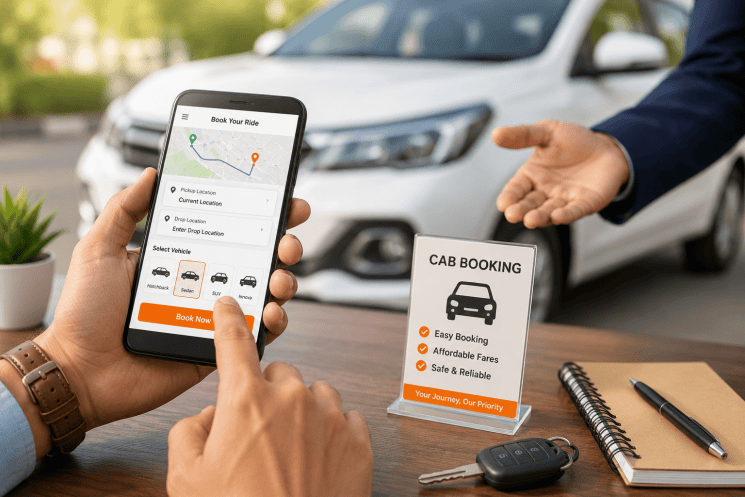
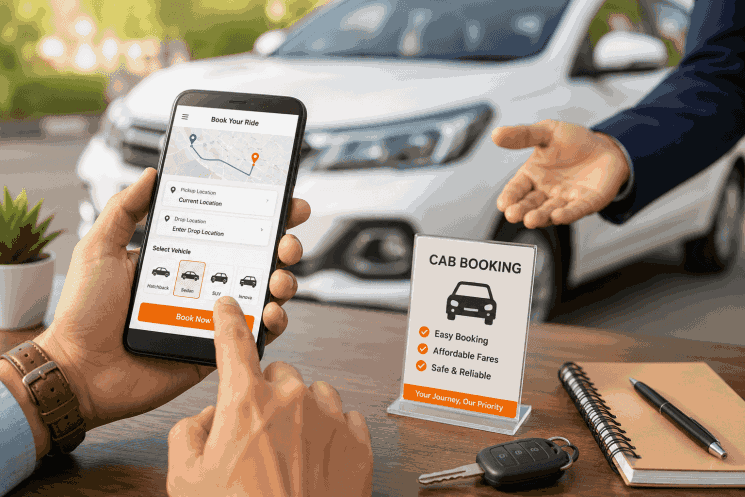
all picture done

diff --git a/components/about/sections/ServicesSection.tsx b/components/about/sections/ServicesSection.tsx
@@ -8,40 +8,9 @@ export const ServicesSection: React.FC = () => {
   const ref = useRef(null);
   const inView = useInView(ref, { once: true, margin: "-80px" });
 
-  const serviceCards = [
-    {
-      title: "Wide Range of Cab Options",
-      description: "Choose from hatchbacks, sedans, SUVs, Innova, Ertiga, and tempo travellers for city rides, family vacations, business trips, airport pickups, and long-distance outstation travel. AAVORide offers clean, comfortable, and budget-friendly vehicles for every journey.",
-      image: "/assets/images/cab-range.png",
-      icon: (
-        <svg viewBox="0 0 18 16" fill="none" xmlns="http://www.w3.org/2000/svg" className="w-5 h-5 text-brand-primary">
-          <path id="Icon_8" d="M3,14v1c0,0.28 -0.0958,0.52 -0.2875,0.71c-0.1917,0.19 -0.4292,0.29 -0.7125,0.29h-1c-0.2833,0 -0.5208,-0.1 -0.7125,-0.29c-0.1917,-0.19 -0.2875,-0.43 -0.2875,-0.71v-8l2.1,-6c0.1,-0.3 0.2792,-0.54 0.5375,-0.72c0.2583,-0.19 0.5458,-0.28 0.8625,-0.28h11c0.3167,0 0.6042,0.09 0.8625,0.28c0.2583,0.18 0.4375,0.42 0.5375,0.72l2.1,6v8c0,0.28 -0.0958,0.52 -0.2875,0.71c-0.1917,0.19 -0.4292,0.29 -0.7125,0.29h-1c-0.2833,0 -0.5208,-0.1 -0.7125,-0.29c-0.1917,-0.19 -0.2875,-0.43 -0.2875,-0.71v-1zM2.8,5h12.4l-1.05,-3h-10.3zM4.5,11c0.4167,0 0.7708,-0.15 1.0625,-0.44c0.2917,-0.29 0.4375,-0.64 0.4375,-1.06c0,-0.42 -0.1458,-0.77 -0.4375,-1.06c-0.2917,-0.29 -0.6458,-0.44 -1.0625,-0.44c-0.4167,0 -0.7708,0.15 -1.0625,0.44c-0.2917,0.29 -0.4375,0.64 -0.4375,1.06c0,0.42 0.1458,0.77 0.4375,1.06c0.2917,0.29 0.6458,0.44 1.0625,0.44zM13.5,11c0.4167,0 0.7708,-0.15 1.0625,-0.44c0.2917,-0.29 0.4375,-0.64 0.4375,-1.06c0,-0.42 -0.1458,-0.77 -0.4375,-1.06c-0.2917,-0.29 -0.6458,-0.44 -1.0625,-0.44c-0.4167,0 -0.7708,0.15 -1.0625,0.44c-0.2917,0.29 -0.4375,0.64 -0.4375,1.06c0,0.42 0.1458,0.77 0.4375,1.06c0.2917,0.29 0.6458,0.44 1.0625,0.44z" fill="currentColor" />
-        </svg>
-      ),
-    },
-    {
-      title: "Trusted & Budget-Friendly",
-      description: "AAVORide makes cab booking simple with affordable fares, professional drivers, easy online booking, and 24/7 customer support. Whether you need a local taxi service or outstation cab booking, enjoy a smooth and stress-free ride experience.",
-      image: "/assets/images/trusted-cab.png",
-      icon: (
-        <svg viewBox="0 0 16 20" fill="none" xmlns="http://www.w3.org/2000/svg" className="w-5 h-5 text-brand-primary">
-          <path id="Icon_9" d="M6.95,13.55l5.65,-5.65l-1.425,-1.43l-4.225,4.23l-2.1,-2.1l-1.425,1.42zM8,20c-2.3167,-0.58 -4.2292,-1.91 -5.7375,-3.99c-1.5083,-2.07 -2.2625,-4.38 -2.2625,-6.91v-6.1l8,-3l8,3v6.1c0,2.53 -0.7542,4.84 -2.2625,6.91c-1.5083,2.08 -3.4208,3.41 -5.7375,3.99z" fill="currentColor" />
-        </svg>
-      ),
-    },
-    {
-      title: "Popular Routes & Travel",
-      description: "Book rides for Ahmedabad to Vadodara, Ahmedabad to Gandhinagar, Ahmedabad to Udaipur, Ahmedabad to Mount Abu, Ahmedabad to Statue of Unity, Vadodara to Surat, and many more routes. Enjoy transparent pricing, verified drivers, and comfortable travel for business trips, airport transfers, family vacations, and weekend getaways.",
-      image: "/assets/images/popular-routes.png",
-      icon: (
-        <svg viewBox="0 0 20 20" fill="none" xmlns="http://www.w3.org/2000/svg" className="w-5 h-5 text-brand-primary">
-          <path id="Icon_10" d="M5.5,14.5l7,-2l2,-7l-7,2zM10,11.5c-0.4167,0 -0.7708,-0.15 -1.0625,-0.44c-0.2917,-0.29 -0.4375,-0.64 -0.4375,-1.06c0,-0.42 0.1458,-0.77 0.4375,-1.06c0.2917,-0.29 0.6458,-0.44 1.0625,-0.44c0.4167,0 0.7708,0.15 1.0625,0.44c0.2917,0.29 0.4375,0.64 0.4375,1.06c0,0.42 -0.1458,0.77 -0.4375,1.06c-0.2917,0.29 -0.6458,0.44 -1.0625,0.44zM10,20c-1.3833,0 -2.6833,-0.26 -3.9,-0.79c-1.2167,-0.52 -2.275,-1.23 -3.175,-2.13c-0.9,-0.9 -1.6125,-1.96 -2.1375,-3.18c-0.525,-1.22 -0.7875,-2.52 -0.7875,-3.9c0,-1.38 0.2625,-2.68 0.7875,-3.9c0.525,-1.22 1.2375,-2.28 2.1375,-3.18c0.9,-0.89 1.9583,-1.61 3.175,-2.13c1.2167,-0.53 2.5167,-0.79 3.9,-0.79c1.3833,0 2.6833,0.26 3.9,0.79c1.2167,0.52 2.275,1.24 3.175,2.13c0.9,0.9 1.6125,1.96 2.1375,3.18c0.525,1.22 0.7875,2.52 0.7875,3.9c0,1.38 -0.2625,2.68 -0.7875,3.9c-0.525,1.22 -1.2375,2.28 -2.1375,3.18c-0.9,0.9 -1.9583,1.61 -3.175,2.13c-1.2167,0.53 -2.5167,0.79 -3.9,0.79z" fill="currentColor" />
-        </svg>
-      ),
-    },
-  ];
+ 
 
-  const serviceCards1 = [
+  const serviceCards = [
     {
       title: "Wide Range of Cab Options",
       description: "Choose from hatchbacks, sedans, SUVs, Innova, Ertiga, and tempo travellers for city rides, family vacations, business trips, airport pickups, and long-distance outstation travel. AAVORide offers clean, comfortable, and budget-friendly vehicles for every journey.",
@@ -52,8 +21,8 @@ export const ServicesSection: React.FC = () => {
         </svg>
       ),
     },
-    {
-      title: "Trusted & Budget-Friendly",
+      {
+      title: "Trusted1 & Budget-Friendly",
       description: "AAVORide makes cab booking simple with affordable fares, professional drivers, easy online booking, and 24/7 customer support. Whether you need a local taxi service or outstation cab booking, enjoy a smooth and stress-free ride experience.",
       image: "/assets/images/trusted-cab(1).png",
       icon: (
@@ -79,10 +48,11 @@ export const ServicesSection: React.FC = () => {
     { initial: { opacity: 0, y: 60, rotate: -3 }, delay: 0.2 },
     { initial: { opacity: 0, y: 80 }, delay: 0.34 },
     { initial: { opacity: 0, y: 60, rotate: 3 }, delay: 0.48 },
+    
   ];
 
-  return (<>
-  <section ref={ref} id="services" className="relative w-full pt-6 md:pb-16 pb-8 -mt-8 bg-white">
+  return (
+    <section ref={ref} id="services" className="relative w-full pt-6 md:pb-16 pb-8 -mt-8 bg-white">
       <div className="md:w-142.5 w-78 h-78 md:h-142.5 bg-brand-primary md:bg-brand-primary/20 z-0 blur-[163px] absolute -left-70 md:left-auto md:-right-20 top-40 md:top-auto md:-bottom-20" />
 
       <div className="max-w-7xl relative z-10 mx-auto px-4 md:px-12">
@@ -161,86 +131,5 @@ export const ServicesSection: React.FC = () => {
         </div>
       </div>
     </section>
-    <section ref={ref} id="services" className="relative w-full pt-6 md:pb-16 pb-8 -mt-8 bg-white">
-      <div className="md:w-142.5 w-78 h-78 md:h-142.5 bg-brand-primary md:bg-brand-primary/20 z-0 blur-[163px] absolute -left-70 md:left-auto md:-right-20 top-40 md:top-auto md:-bottom-20" />
-
-      <div className="max-w-7xl relative z-10 mx-auto px-4 md:px-12">
-
-        {/* Header — split: heading from left, para from right */}
-        <div className="flex flex-col gap-6 text-left max-w-5xl mb-8">
-          {/* <motion.h2
-            className="text-[32px] md:text-5xl font-bold text-foreground leading-10 md:leading-[3.25rem] tracking-[0.32px]"
-            initial={{ opacity: 0, x: -40 }}
-            animate={inView ? { opacity: 1, x: 0 } : {}}
-            transition={{ duration: 0.65, ease: "easeOut", delay: 0.08 }}
-          >
-            Affordable Cab Booking & Outstation Taxi{" "}
-            <span className="text-brand-primary block sm:inline">Services Across India</span>
-          </motion.h2> */}
-          <motion.h2
-            className="text-[32px] md:text-5xl font-bold text-foreground leading-10 md:leading-[3.25rem] tracking-[0.32px]"
-          >
-            {/* For small screens (mobile) */}
-
-            <div className="block md:hidden mt-2">
-              Affordable Cab Booking & Outstation Taxi{" "}
-              <span className="text-brand-primary">
-                Services Across {" "}India
-              </span>
-            </div>
-
-            {/* For medium and larger screens */}
-            <div className="hidden md:block">
-              Affordable Cab Booking & Outstation Taxi{" "}
-              <span className="text-brand-primary">
-                Services Across {" "}India
-              </span>
-            </div>
-
-          </motion.h2>
-          <motion.p
-            className="text-base md:text-lg text-muted-gray leading-7.5 font-normal max-w-3xl"
-            initial={{ opacity: 0, x: 40 }}
-            animate={inView ? { opacity: 1, x: 0 } : {}}
-            transition={{ duration: 0.65, ease: "easeOut", delay: 0.18 }}
-          >
-            AAVORide provides reliable and affordable cab booking services for local rides, outstation travel, airport transfers, corporate trips, and holiday journeys across India. Travel comfortably with verified drivers, transparent pricing, and multiple vehicle options designed for every travel need.
-          </motion.p>
-        </div>
-
-        {/* Cards — fan up with stagger + slight rotation */}
-        <div className="grid grid-cols-1 md:grid-cols-3 gap-8 mb-6">
-          {serviceCards1.map((card, index) => (
-            <motion.div
-              key={index}
-              className="flex flex-col gap-5 p-5 rounded-2xl relative z-10 border border-card-border bg-white shadow-xs hover:shadow-md hover:scale-[1.01] transition-all duration-300"
-              initial={cardVariants[index].initial}
-              animate={inView ? { opacity: 1, y: 0, rotate: 0 } : {}}
-              transition={{ duration: 0.6, ease: [0.22, 1, 0.36, 1], delay: cardVariants[index].delay }}
-            >
-              <div className="relative w-full h-55 overflow-hidden rounded-xl">
-                <Image
-                  src={card.image}
-                  alt={card.title}
-                  fill
-                  className="object-cover transition-transform duration-500 hover:scale-105"
-                />
-              </div>
-              <div className="flex items-center gap-3">
-                <div className="flex items-center justify-center w-10 h-10 rounded-lg bg-brand-primary/10 shrink-0">
-                  {card.icon}
-                </div>
-                <h3 className="text-lg md:text-xl font-bold text-foreground">{card.title}</h3>
-              </div>
-              <p className="text-sm md:text-base text-muted-gray leading-relaxed font-normal">
-                {card.description}
-              </p>
-            </motion.div>
-          ))}
-        </div>
-      </div>
-    </section>
-  </>
-    
   );
 };
